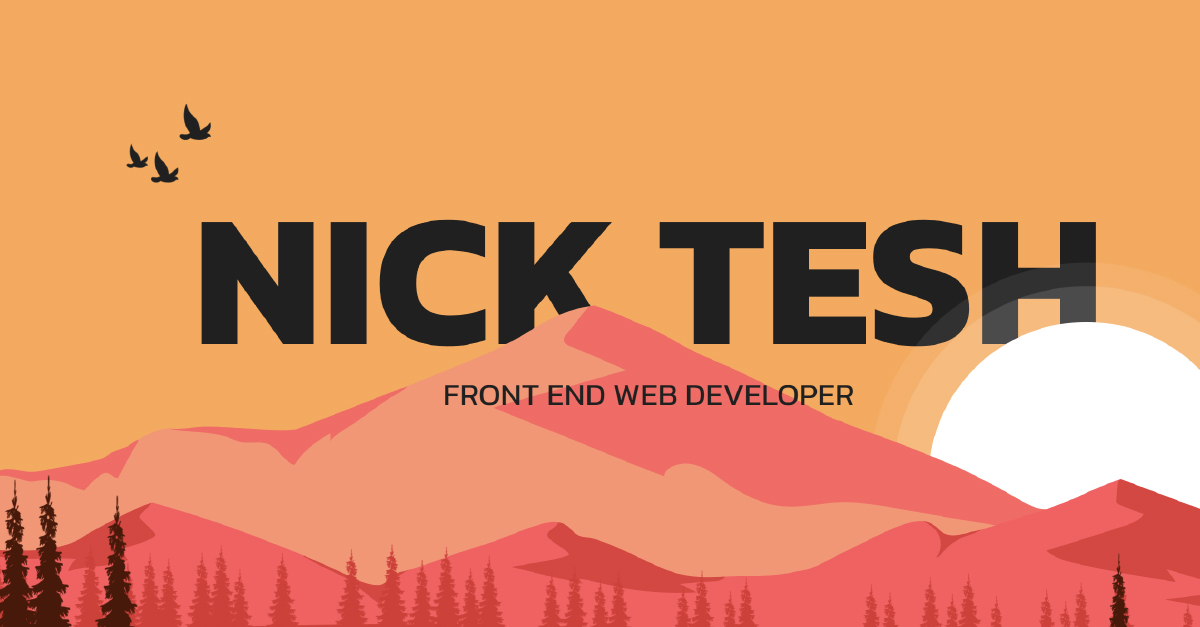
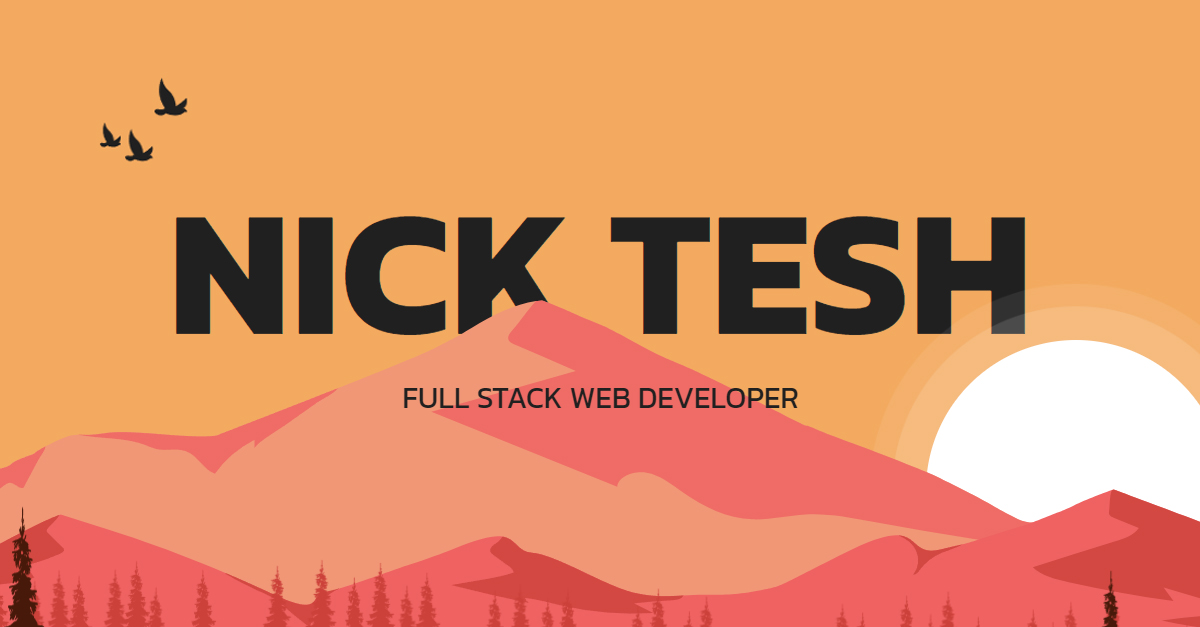
Updated OG Image, Added Sitemap, Fixed charts on mobile

diff --git a/js/scripts.js b/js/scripts.js
@@ -340,6 +340,49 @@ chartData.forEach(({ container, title, categories, data }) => {
 });
 
 /**
+ * This script manages pointer events for elements with the 'single-chart' class
+ * based on touch interactions. It disables pointer events when a touchstart is detected and
+ * re-enables them when the touch ends.
+ *
+ */
+
+document.addEventListener("DOMContentLoaded", function () {
+  let isTouchingChart = false;
+
+  // Disables pointer events for all elements with the 'single-chart' class.
+  function disablePointerEvents() {
+    document.querySelectorAll(".single-chart").forEach(function (chart) {
+      chart.classList.add("disable-pointer-events");
+    });
+  }
+
+  // Enables pointer events for all elements with the 'single-chart' class.
+  function enablePointerEvents() {
+    document.querySelectorAll(".single-chart").forEach(function (chart) {
+      chart.classList.remove("disable-pointer-events");
+    });
+  }
+
+  // Adds touchstart event listeners to all elements with the 'single-chart' class.
+  // Disables pointer events when touchstart is detected.
+  document.querySelectorAll(".single-chart").forEach(function (chart) {
+    chart.addEventListener("touchstart", function () {
+      isTouchingChart = true;
+      disablePointerEvents();
+    });
+  });
+
+  // Adds a touchend event listener to the document.
+  // Re-enables pointer events when the touch ends.
+  document.addEventListener("touchend", function () {
+    if (isTouchingChart) {
+      isTouchingChart = false;
+      enablePointerEvents();
+    }
+  });
+});
+
+/**
  * Fetches project data and dynamically generates project cards and modals.
  *
  * This script waits for the DOM content to be fully loaded, then:

diff --git a/index.html b/index.html
@@ -34,6 +34,18 @@
     <!-- Title -->
     <title>Nick Tesh - Full Stack Web Developer</title>
 
+    <!-- Google tag (gtag.js) -->
+    <script async src="https://www.googletagmanager.com/gtag/js?id=G-RW4XN3LSY3"></script>
+    <script>
+      window.dataLayer = window.dataLayer || [];
+      function gtag() {
+        dataLayer.push(arguments);
+      }
+      gtag("js", new Date());
+
+      gtag("config", "G-RW4XN3LSY3");
+    </script>
+
     <!-- Fonts -->
     <link rel="preconnect" href="https://fonts.googleapis.com" />
     <link rel="preconnect" href="https://fonts.gstatic.com" crossorigin />

diff --git a/css/scss/styles.css b/css/scss/styles.css
@@ -423,6 +423,9 @@ img {
 .p-0 {
   padding: 0; }
 
+.disable-pointer-events {
+  pointer-events: none; }
+
 .skip-link-wrapper .skip-link {
   position: absolute;
   top: -40px;

diff --git a/css/scss/styles.scss b/css/scss/styles.scss
@@ -158,6 +158,9 @@ img {
 .p-0 {
   padding: 0;
 }
+.disable-pointer-events {
+  pointer-events: none;
+}
 // Skip Links
 .skip-link-wrapper {
   .skip-link {
